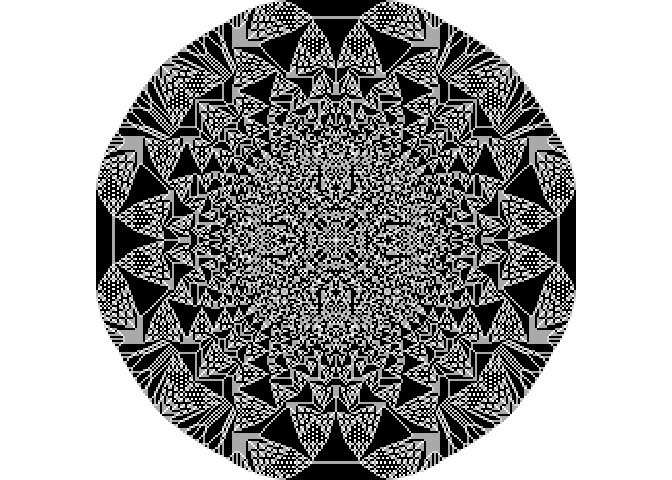
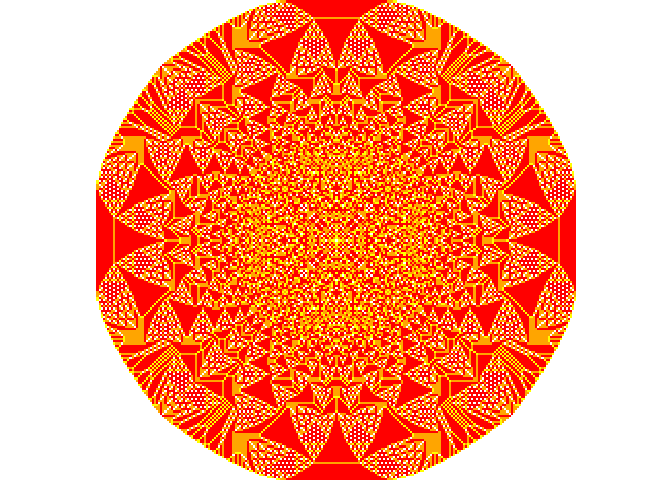
Improve readme

diff --git a/README.md b/README.md
@@ -3,51 +3,65 @@
 
 # fractalplotr
 
-The goal of fractalplotr is to … (FIXME) This package is currently under
-heavy construction. Nothing works and everything is on fire.
+This package lets you create and plot fractals.
+
+currently implemented:
+
+  - [Dragon curve](https://en.wikipedia.org/wiki/Dragon_curve)
+  - [Mandelbrot set](https://en.wikipedia.org/wiki/Mandelbrot_set)
+  - [Sandpile](https://en.wikipedia.org/wiki/Abelian_sandpile_model)
+
+planned:
+
+  - [Julia set](https://en.wikipedia.org/wiki/Julia_set)
+  - [Ulam-Warburton cellular
+    automaton](https://en.wikipedia.org/wiki/Ulam%E2%80%93Warburton_automaton)
+  - [toothpick
+    pattern](https://en.wikipedia.org/wiki/Toothpick_sequence)
 
 ## Installation
 
 You can install fractalplotr from GitHub with:
 
 ``` r
-install.packages("devtools")
+# install.packages("devtools")
 devtools::install_github("bastihz/fractalplotr")
 ```
 
 ## Examples
 
-TODO: better image resolution, maybe a little smaller images? See how it
-looks on the phone and the laptop. \# FIXME: If I can’t set the size via
-the chunk then I could just programmatically generate and save the
-pictures and include them like any other picture.
-
-**Dragon curves** (TODO: link to wikipedia)
+**Dragon curve**
 
 ``` r
 d <- dragon_curve(12)
-plot(d)
+plot(d, col = "forestgreen")
 ```
 
 <img src="man/figures/README-dragon-1.png" width="100%" />
 
-**Mandelbrot sets** (TODO: link to wikipedia)
+**Mandelbrot
+set**
 
 ``` r
+blue_to_black <- colorRampPalette(c(rgb(0, 0, 0.5), "white", rgb(1, 0.75, 0), 
+                                    "darkred", "black"))
 m <- mandelbrot(
-    800, 
-    600, 
-    color_palette = colorRampPalette(c("black", "green"))(128)
+    1200, 
+    1200,
+    re_width = 2.5,
+    center = -0.75,
+    color_palette = blue_to_black(128),
+    color_mode = "smooth"
 )
 plot(m)
 ```
 
 <img src="man/figures/README-mandelbrot-1.png" width="100%" />
 
-**Sandpiles** (TODO: link to wikipedia)
+**Sandpile**
 
 ``` r
-s <- sandpile(1e5)
+s <- sandpile(1e5, c("white", "yellow", "orange", "red"))
 plot(s)
 ```
 
